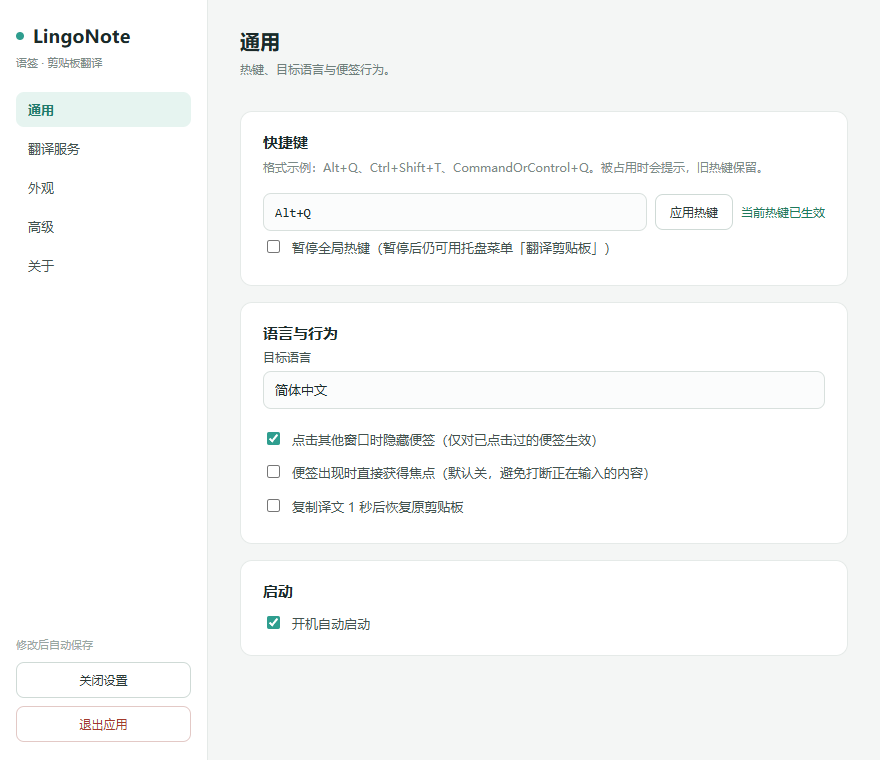
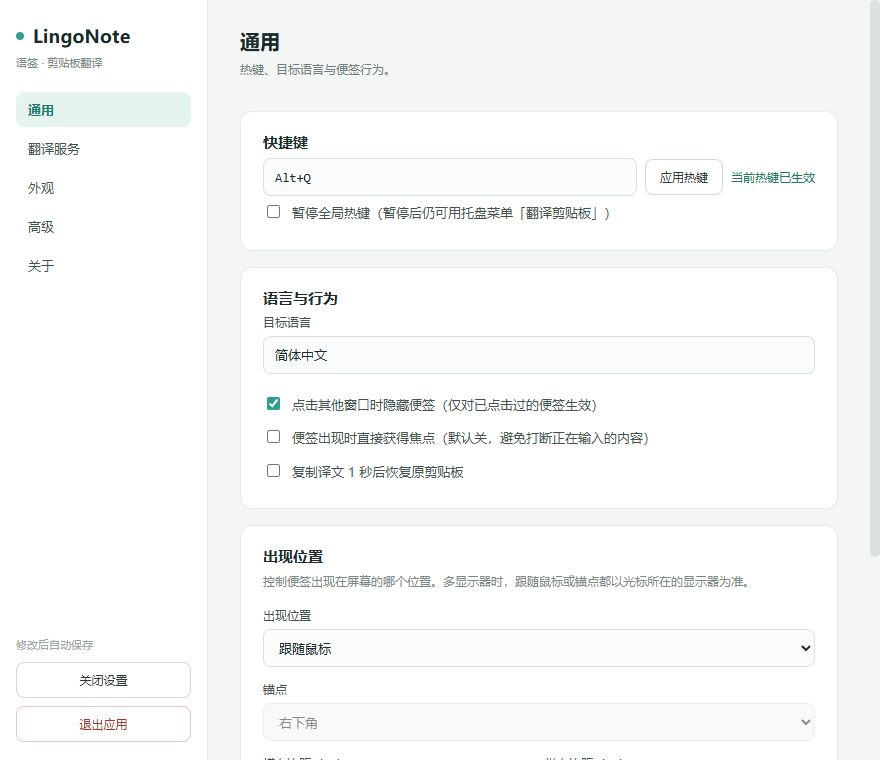
docs: 更新设置页截图与 README，移除本地路径信息

diff --git a/design/export_tauri_icons.py b/design/export_tauri_icons.py
@@ -1,8 +1,8 @@
 from PIL import Image
 import os
 
-src = Image.open(r"D:\ClipTonge\design\lingonote-1024.png")
-out = r"D:\ClipTonge\src-tauri\icons"
+src = Image.open(os.path.join(os.path.dirname(os.path.abspath(__file__)), "lingonote-1024.png"))
+out = os.path.normpath(os.path.join(os.path.dirname(os.path.abspath(__file__)), "..", "src-tauri", "icons"))
 os.makedirs(out, exist_ok=True)
 
 for size, name in [

diff --git a/design/make_icon.py b/design/make_icon.py
@@ -1,7 +1,7 @@
 from PIL import Image, ImageDraw, ImageFont, ImageFilter
 import os
 
-OUT = r"D:\ClipTonge\design"
+OUT = os.path.dirname(os.path.abspath(__file__))
 os.makedirs(OUT, exist_ok=True)
 
 S = 2048

diff --git a/README.md b/README.md
@@ -1,8 +1,13 @@
 # LingoNote（语签）
 
+[![build](https://github.com/SeaTownHZ/lingonote/actions/workflows/build.yml/badge.svg)](https://github.com/SeaTownHZ/lingonote/actions/workflows/build.yml)
+[![license: MIT](https://img.shields.io/badge/license-MIT-green.svg)](LICENSE)
+
 复制文本，按 `Alt+Q`，在光标旁看译文。
 
 LingoNote 是一个轻量的剪贴板翻译小工具：读取剪贴板文本，调用你自己配置的 OpenAI 兼容大模型接口，用一张可自定义的便签显示流式译文。无账号、无广告、无遥测。
+
+![LingoNote 设置页](docs/images/m2-settings.png)
 
 当前状态：**M2 Windows 主体完成（0.2.0）**。在 M1 基础上新增单实例、可编辑系统提示词、暂停热键、本地历史、配置导入/导出、滚动日志、配置原子写入与损坏备份、设置页五分区与自动保存。构建、16 个单元/集成测试、单实例与 v1→v2 配置迁移已验证；安装包与手动 UI 验收见 [`docs/M2-验证记录.md`](docs/M2-验证记录.md)。macOS 仍为 beta/未验证。
 
@@ -129,7 +134,7 @@ node scripts/cdp.mjs screenshot docs/images/ui.png
 - 日志目录使用 Tauri 的 app log dir（`%LOCALAPPDATA%\com.lingonote.desktop\logs`），不是需求草案里的 `%LOCALAPPDATA%\LingoNote`。
 - macOS 尚未在真机验证；CI 工作流见 `.github/workflows/build.yml`。
 - 便签高度固定 360px；长文本内部滚动。
-- 开机自启在开发模式下会注册 dev exe，正式测试请用安装版；当前已安装到 `C:\Users\seatown\AppData\Local\Programs\LingoNote`，自启指向该目录。旧测试安装 `D:\ClipTonge\.tools\install-test\` 可手动删除。
+- 开机自启在开发模式下会注册 dev exe，正式使用请装安装版；安装版的自启指向安装目录下的 exe。
 - GNU 链接警告 `multiple non-default manifests` 仍在，不影响启动。
 
 ## 数据位置
@@ -143,7 +148,7 @@ node scripts/cdp.mjs screenshot docs/images/ui.png
 ## 目录
 
 ```
-docs/                需求文档 v0.3、M0/M1/M2 验证记录
+docs/                M0/M1/M2 验证记录与界面截图
 design/              LingoNote 图标与生成脚本
 src/                 便签 + 设置前端
 src-tauri/           Tauri/Rust 后端

diff --git a/docs/M1-验证记录.md b/docs/M1-验证记录.md
@@ -50,10 +50,10 @@
 - `keyring` 在 macOS 上首次访问可能触发 Keychain 授权提示；未真机验证。
 - 热键修改是文本输入，不是按键录制；格式错误会提示。
 - 设置窗口 780×760，小屏可能需滚动。
-- 旧测试安装 `D:\ClipTonge\.tools\install-test\` 仍存在，可手动删除；正式自启已指向 `C:\Users\seatown\AppData\Local\Programs\LingoNote\lingonote.exe`。
+- 早期测试用过一份便携安装目录，现已清理；正式自启指向安装目录下的 `lingonote.exe`。
 - GNU 链接警告 `multiple non-default manifests` 仍在，不影响启动。
 
 ## 下一步
 
 1. macOS 真机/云 Mac 验证：Keychain、全局热键、托盘、置顶、Retina。
-2. 可选：删除旧测试安装 `D:\ClipTonge\.tools\install-test\`。
+2. 可选：清理旧的测试安装目录。

diff --git a/docs/M2-验证记录.md b/docs/M2-验证记录.md
@@ -92,4 +92,4 @@
 2. 用真实 DeepSeek Key 复测一条，并确认便签圆角/提示词效果。
 3. macOS 真机或云 Mac 验收（Keychain、热键、托盘、单实例、Retina）。
 4. 评估是否补窗口透明度、位置记忆、自动更新等 P2 项。
-5. 清理旧测试安装 `D:\ClipTonge\.tools\install-test\`。
+5. 清理旧的测试安装目录。
